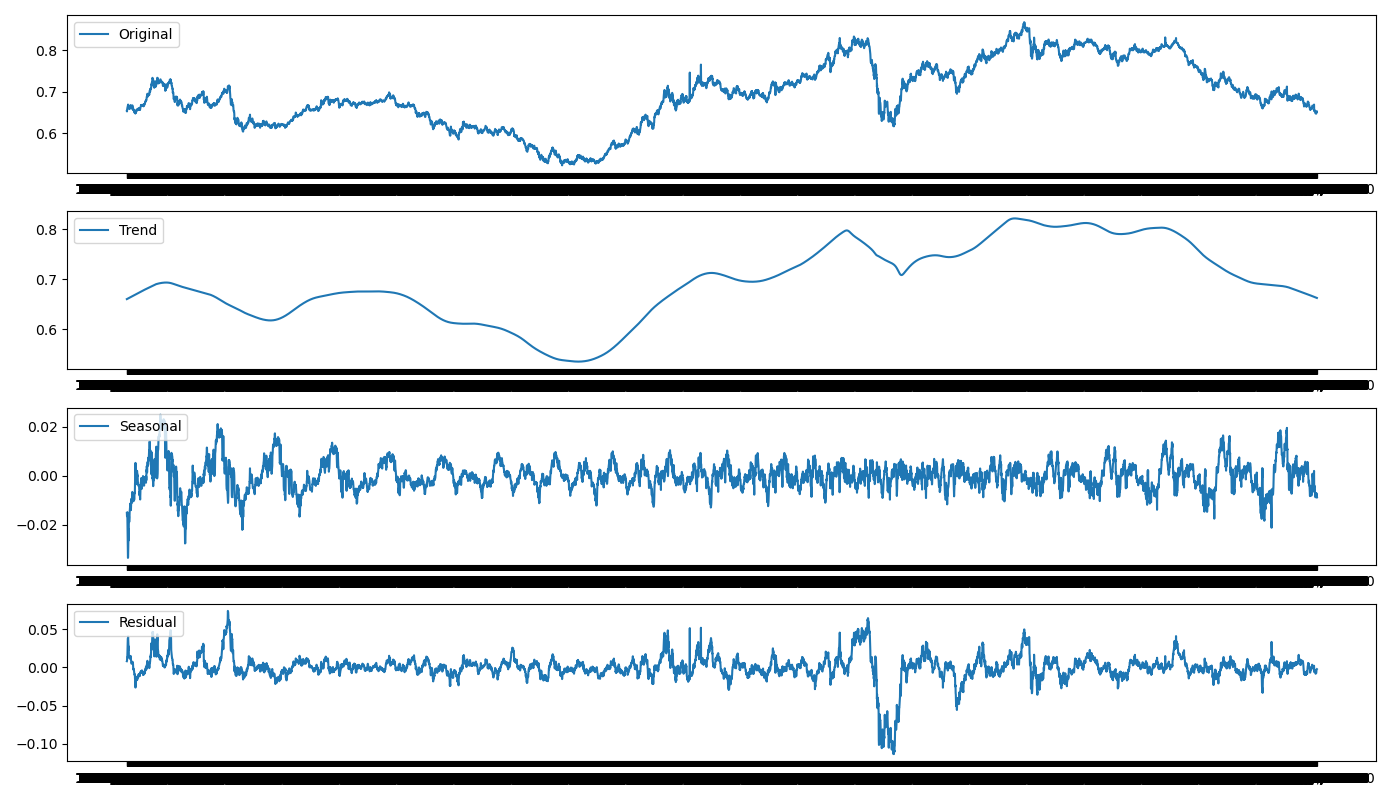
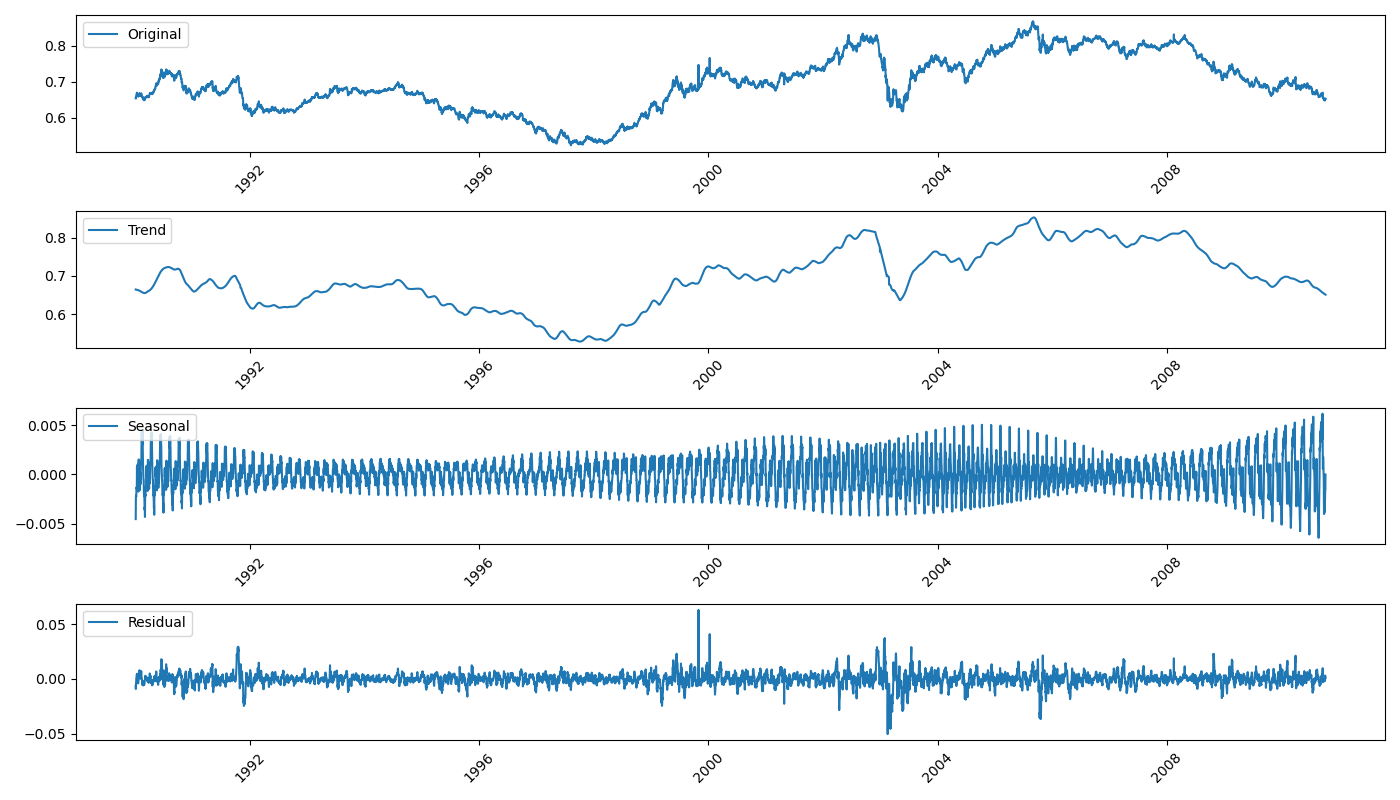
commit

diff --git a/fft.py b/fft.py
@@ -7,7 +7,6 @@ matplotlib.use('Agg')
 from src.data_loading import DataLoader
 from src.missing_simulation import MissingSimulation
 from src.imputer import *
-from src.evaluation_metrics import Evaluate
 
 
 np.random.seed(42)
@@ -32,39 +31,57 @@ n = len(complete_data)
 fft_complete = fft_complete[:n // 2]
 fft_imputed = fft_imputed[:n // 2]
 
-plt.figure(figsize=(12, 6))
+# Find top 5 amplitudes for complete data
+top5_complete_idx = np.argsort(fft_complete)[-5:]
+top5_complete_idx.sort()  # Sort to get the correct order for zoom
+top5_imputed_idx = np.argsort(fft_imputed)[-5:]
+top5_imputed_idx.sort()  # Sort to get the correct order for zoom
+
+# Define the zoom range to include the top 5 amplitudes
+zoom_start = min(top5_complete_idx[0], top5_imputed_idx[0]) - 5
+zoom_end = max(top5_complete_idx[-1], top5_imputed_idx[-1]) + 5
+
+plt.figure(figsize=(12, 12))
 
 # Original plots
 plt.subplot(2, 1, 1)
 plt.plot(range(0, n // 2), fft_complete, label='Complete Data', alpha=0.7)
 plt.plot(range(0, n // 2), fft_imputed, label='Imputed Data', alpha=0.7, linestyle='--')
-
-# Find top 5 amplitudes for complete data
-top5_complete_idx = np.argsort(fft_complete)[-5:]
-top5_complete_val = fft_complete[top5_complete_idx]
-
-# Find top 5 amplitudes for imputed data
-top5_imputed_idx = np.argsort(fft_imputed)[-5:]
-top5_imputed_val = fft_imputed[top5_imputed_idx]
-
-print("Top 5 Amplitudes for Complete Data:")
-for i in range(5):
-    print(f"Index: {top5_complete_idx[i]}, Value: {top5_complete_val[i]}")
-print("Top 5 Amplitudes for Imputed Data:")
-for i in range(5):
-    print(f"Index: {top5_imputed_idx[i]}, Value: {top5_imputed_val[i]}")
-
 plt.title('FFT Comparison: Complete vs Imputed Data')
+plt.axvspan(zoom_start, zoom_end, color='yellow', alpha=0.2, label='Zoom Region')
 plt.ylabel('Magnitude')
 plt.legend()
 plt.grid(True)
 
-# Difference plot
+shared_peaks = set(top5_complete_idx).intersection(set(top5_imputed_idx))
+shared_peaks = list(shared_peaks)
+# Find overlap in top 5 peaks and remove from either list to create unique sets
+top5_complete_idx = [idx for idx in top5_complete_idx if idx not in shared_peaks]
+top5_imputed_idx = [idx for idx in top5_imputed_idx if idx not in shared_peaks]
+
+# Zoomed-in plot
 plt.subplot(2, 1, 2)
-plt.plot(range(0, n // 2), fft_complete - fft_imputed, color='red', label='Difference (Complete - Imputed)')
-plt.title('Difference between Complete and Imputed FFT')
+plt.plot(range(0, n // 2), fft_complete, label='Complete Data', alpha=0.7)
+plt.plot(range(0, n // 2), fft_imputed, label='Imputed Data', alpha=0.7, linestyle='--')
+
+for idx in shared_peaks:
+    plt.plot(idx, fft_complete[idx], 'bo', markersize=3, label='Shared Peaks' if idx == shared_peaks[0] else "")
+    plt.plot([idx, idx], [0, fft_complete[idx]], 'b--', linewidth=0.8)
+
+# Mark top 5 peaks for complete data
+for idx in top5_complete_idx:
+    plt.plot(idx, fft_complete[idx], 'ro', markersize=3, label='Complete Peaks' if idx == top5_complete_idx[0] else "")
+    plt.plot([idx, idx], [0, fft_complete[idx]], 'r--', linewidth=0.8)
+
+# Mark top 5 peaks for imputed data
+for idx in top5_imputed_idx:
+    plt.plot(idx, fft_imputed[idx], 'go', markersize=3, label='Imputed Peaks' if idx == top5_imputed_idx[0] else "")
+    plt.plot([idx, idx], [0, fft_imputed[idx]], 'g--', linewidth=0.8)
+
+plt.xlim(zoom_start, zoom_end)
+plt.title('Zoomed-in FFT Comparison (Top 5 Periods Marked)')
 plt.xlabel('Period by days')
-plt.ylabel('Magnitude Difference')
+plt.ylabel('Magnitude')
 plt.legend()
 plt.grid(True)
 

diff --git a/STL.py b/STL.py
@@ -3,16 +3,20 @@ import numpy as np
 import matplotlib.pyplot as plt
 from statsmodels.tsa.seasonal import STL
 import matplotlib
+import matplotlib.dates as mdates
 matplotlib.use('Agg')
 
 ts = pd.read_csv("./Time-Series-Library/dataset/exchange_rate/exchange_rate.csv", encoding='utf-8')
 ts = ts.set_index('date')
 
+# 将日期索引转换为 pandas datetime 对象
+ts.index = pd.to_datetime(ts.index)
+
 ts.iloc[:, 0] = ts.iloc[:, :].mean(axis=1)
 ts = ts.iloc[:, 0]
 
 # 应用STL分解
-stl = STL(ts, seasonal=7, trend=30, period=7, robust=True)
+stl = STL(ts, seasonal=41, trend=61, period=59, robust=True)
 result = stl.fit()
 
 # 提取分解后的成分
@@ -26,18 +30,30 @@ plt.figure(figsize=(14, 8))
 plt.subplot(4, 1, 1)
 plt.plot(ts, label='Original')
 plt.legend(loc='upper left')
+# 设置 x 轴刻度格式为只显示年份
+plt.gca().xaxis.set_major_formatter(mdates.DateFormatter('%Y'))
+plt.xticks(rotation=45)
 
 plt.subplot(4, 1, 2)
 plt.plot(trend, label='Trend')
 plt.legend(loc='upper left')
+# 设置 x 轴刻度格式为只显示年份
+plt.gca().xaxis.set_major_formatter(mdates.DateFormatter('%Y'))
+plt.xticks(rotation=45)
 
 plt.subplot(4, 1, 3)
 plt.plot(seasonal, label='Seasonal')
 plt.legend(loc='upper left')
+# 设置 x 轴刻度格式为只显示年份
+plt.gca().xaxis.set_major_formatter(mdates.DateFormatter('%Y'))
+plt.xticks(rotation=45)
 
 plt.subplot(4, 1, 4)
 plt.plot(resid, label='Residual')
 plt.legend(loc='upper left')
+# 设置 x 轴刻度格式为只显示年份
+plt.gca().xaxis.set_major_formatter(mdates.DateFormatter('%Y'))
+plt.xticks(rotation=45)
 
 plt.tight_layout()
 plt.savefig('stl_decomposition.png')
